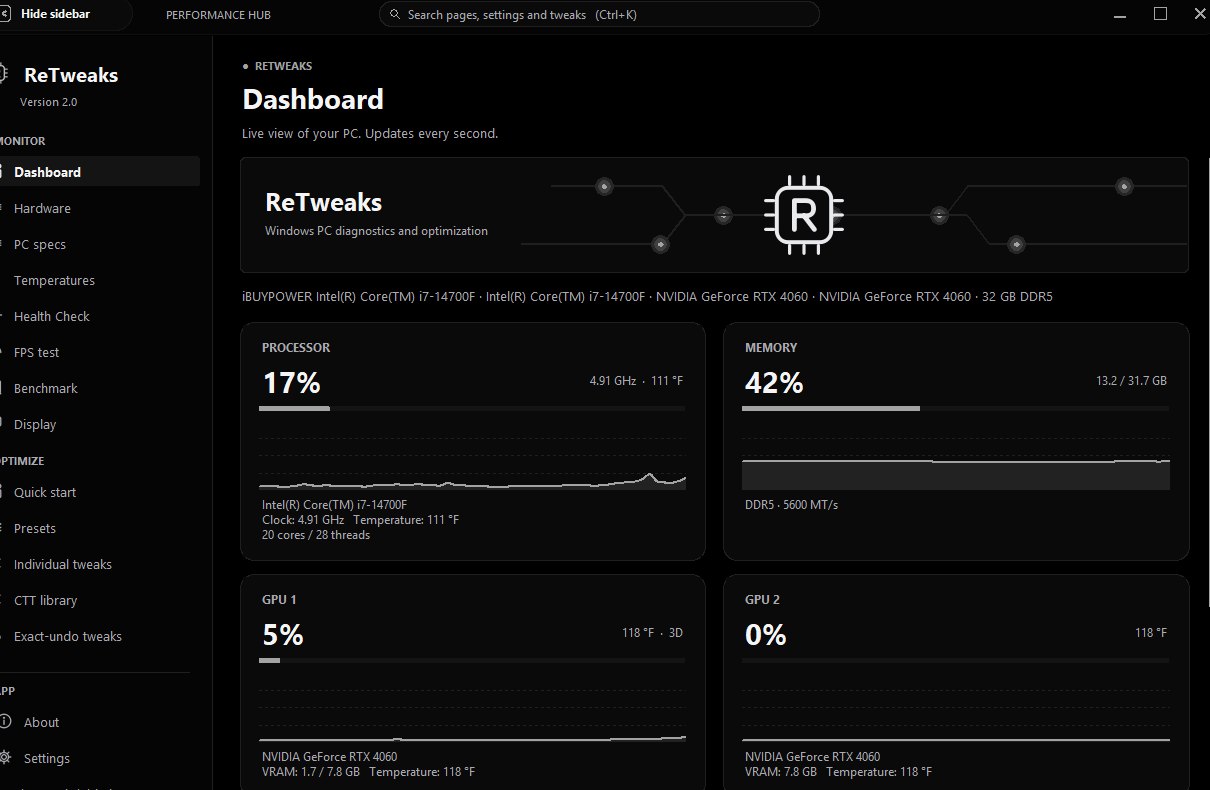
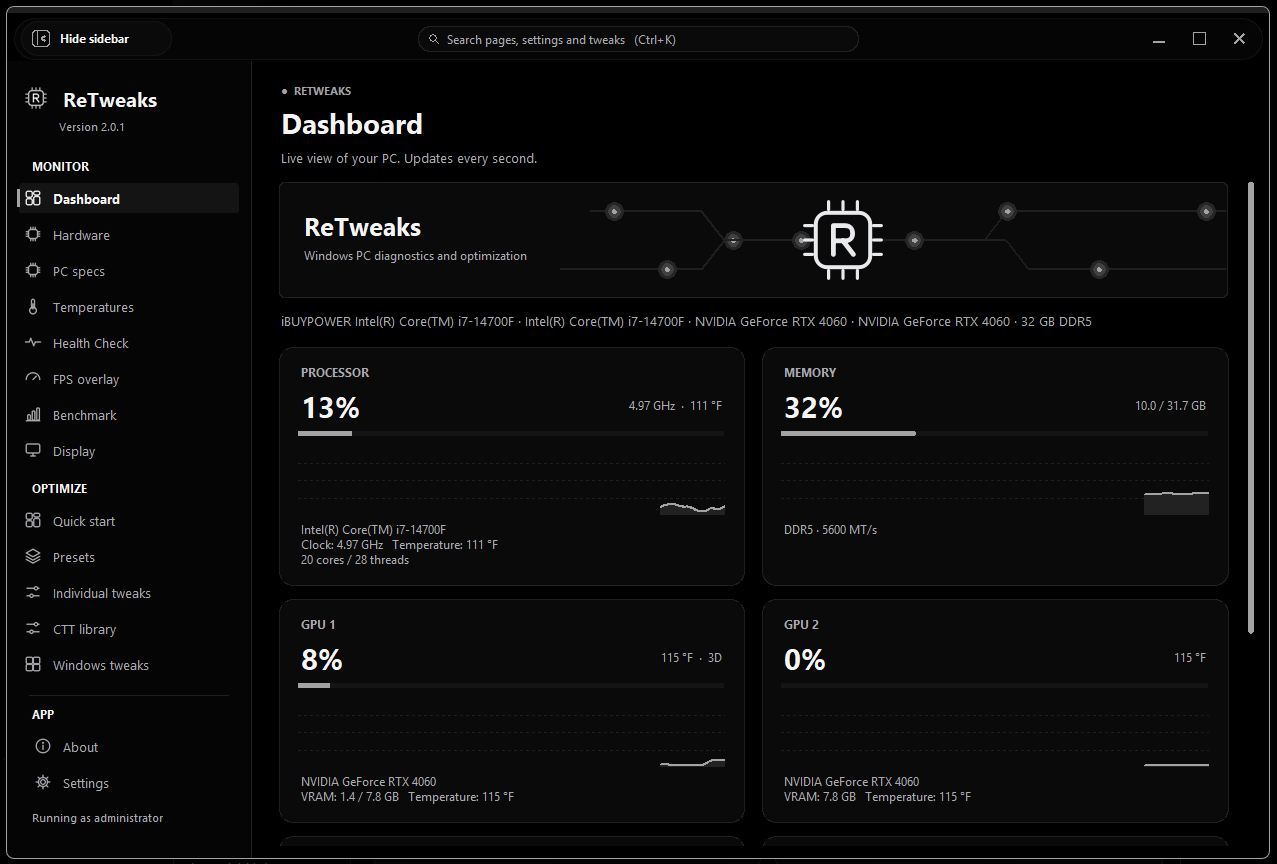
RETWEAKS

diff --git a/docs/index.html b/docs/index.html
@@ -362,11 +362,11 @@ footer a{color:var(--muted)}
   <div class="sechead reveal">
     <p class="eyebrow">Screenshot</p>
     <h2>The Dashboard</h2>
-    <p>A real screenshot from the owner's PC, not a mockup. Every number on it was read live from Windows at the moment it was taken. The build shown is the in-development version, so some labels may differ from the current release.</p>
+    <p>A real screenshot from the owner's PC, not a mockup. Every number on it was read live from Windows at the moment it was taken. The build shown is the in-development version 2.0.1, so some pages and labels may differ from the current release.</p>
   </div>
   <div class="shot reveal">
     <div class="bar"><i></i><i></i><i></i> RETWEAKS · Dashboard · screenshot</div>
-    <div class="img"><img src="dashboard.png" alt="RETWEAKS Dashboard: sidebar with Monitor, Optimize and App sections; cards for Processor, Memory and GPU showing live load, clock, temperature and VRAM" width="1210" height="790" loading="lazy"><div class="scanline" aria-hidden="true"></div></div>
+    <div class="img"><img src="dashboard.png" alt="RETWEAKS Dashboard: sidebar with Monitor, Optimize and App sections; cards for Processor, Memory and two GPU entries showing live load, clock, temperature and VRAM" width="1277" height="864" loading="lazy"><div class="scanline" aria-hidden="true"></div></div>
     <div class="cap"><b>Live view of your PC, updated every second.</b> Processor load, clock and temperature; memory in use; per-GPU load, VRAM and temperature, each with a history graph.</div>
   </div>
   <div class="calls reveal">
@@ -500,22 +500,13 @@ footer a{color:var(--muted)}
   </div>
   <div class="tl reveal" id="timeline">
     <article>
-      <div class="v">v2.0 <span class="tag">Latest</span></div>
+      <div class="v">v1.6 <span class="tag">Latest</span></div>
       <ul>
-        <li>A full rebuild with 46 pages: temperatures, fan control and fan curves, fan and RAM RGB lighting, a crosshair overlay with share codes, and a built-in browser that runs as its own program.</li>
-        <li>117 more tweaks (including the Chris Titus Tech set), 12 quick presets, game profiles for 11 games, and driver downloads for NVIDIA, AMD and Intel.</li>
-        <li>Search everything with Ctrl+K, five languages, a welcome tour, optional automatic updates, and Super Black as the default theme. Your settings carry over.</li>
-      </ul>
-      <a href="https://github.com/w1zr/ReTweaks/releases/tag/v2.0" target="_blank" rel="noopener">Release notes</a>
-    </article>
-    <article>
-      <div class="v">v1.6</div>
-      <ul>
-        <li>The project gets its RETWEAKS name. Same app, same chip logo, new ReTweaks wordmark.</li>
+        <li>RYTWEAKS is now RETWEAKS. Same app, same chip logo, new ReTweaks wordmark.</li>
         <li>First start moves settings, themes, undo data, preset backups, program rules, bookmarks, browser logins, the AI key and Start with Windows to the new name. Old folders are kept as a backup.</li>
         <li>v1.5.1 can't self-update because the file name changed: download RETWEAKS.exe once. After that, in-app updates work again.</li>
       </ul>
-      <a href="https://github.com/w1zr/ReTweaks/releases/tag/v1.6" target="_blank" rel="noopener">Release notes</a>
+      <a href="https://github.com/w1zr/ReTweaks/releases/latest" target="_blank" rel="noopener">Release notes</a>
     </article>
     <article>
       <div class="v">v1.5.1</div>
@@ -606,6 +597,7 @@ footer a{color:var(--muted)}
   <details><summary>How do I update?</summary><p>An Update now bar appears at the top of every page when a new version is out. It downloads the new .exe, checks its SHA-256, and keeps the old one as RETWEAKS.old.exe. Your settings are kept. The one exception was the v1.5.1 → v1.6 rename, which needs one manual download.</p></details>
   <details><summary>Is there a community?</summary><p>Yes, the RETWEAKS Discord: <a href="https://discord.gg/fS5NwW9TPF" target="_blank" rel="noopener">discord.gg/fS5NwW9TPF</a>. Questions, feedback and theme codes go there.</p></details>
   <details><summary>Something broke. Where do I report it?</summary><p>Ask on the Discord or use the Report a problem button to open a bug form on GitHub and describe what happened. Adding your specs is optional: the page can copy what your browser sees, and the RETWEAKS Hardware and About pages have the rest.</p></details>
+  <details><summary>What was RYTWEAKS?</summary><p>The previous name. Version 1.6 renamed the project to RETWEAKS. Settings, themes and the Gemini credential migrate automatically, and old theme share codes still import.</p></details>
   </div>
 </section>
 
